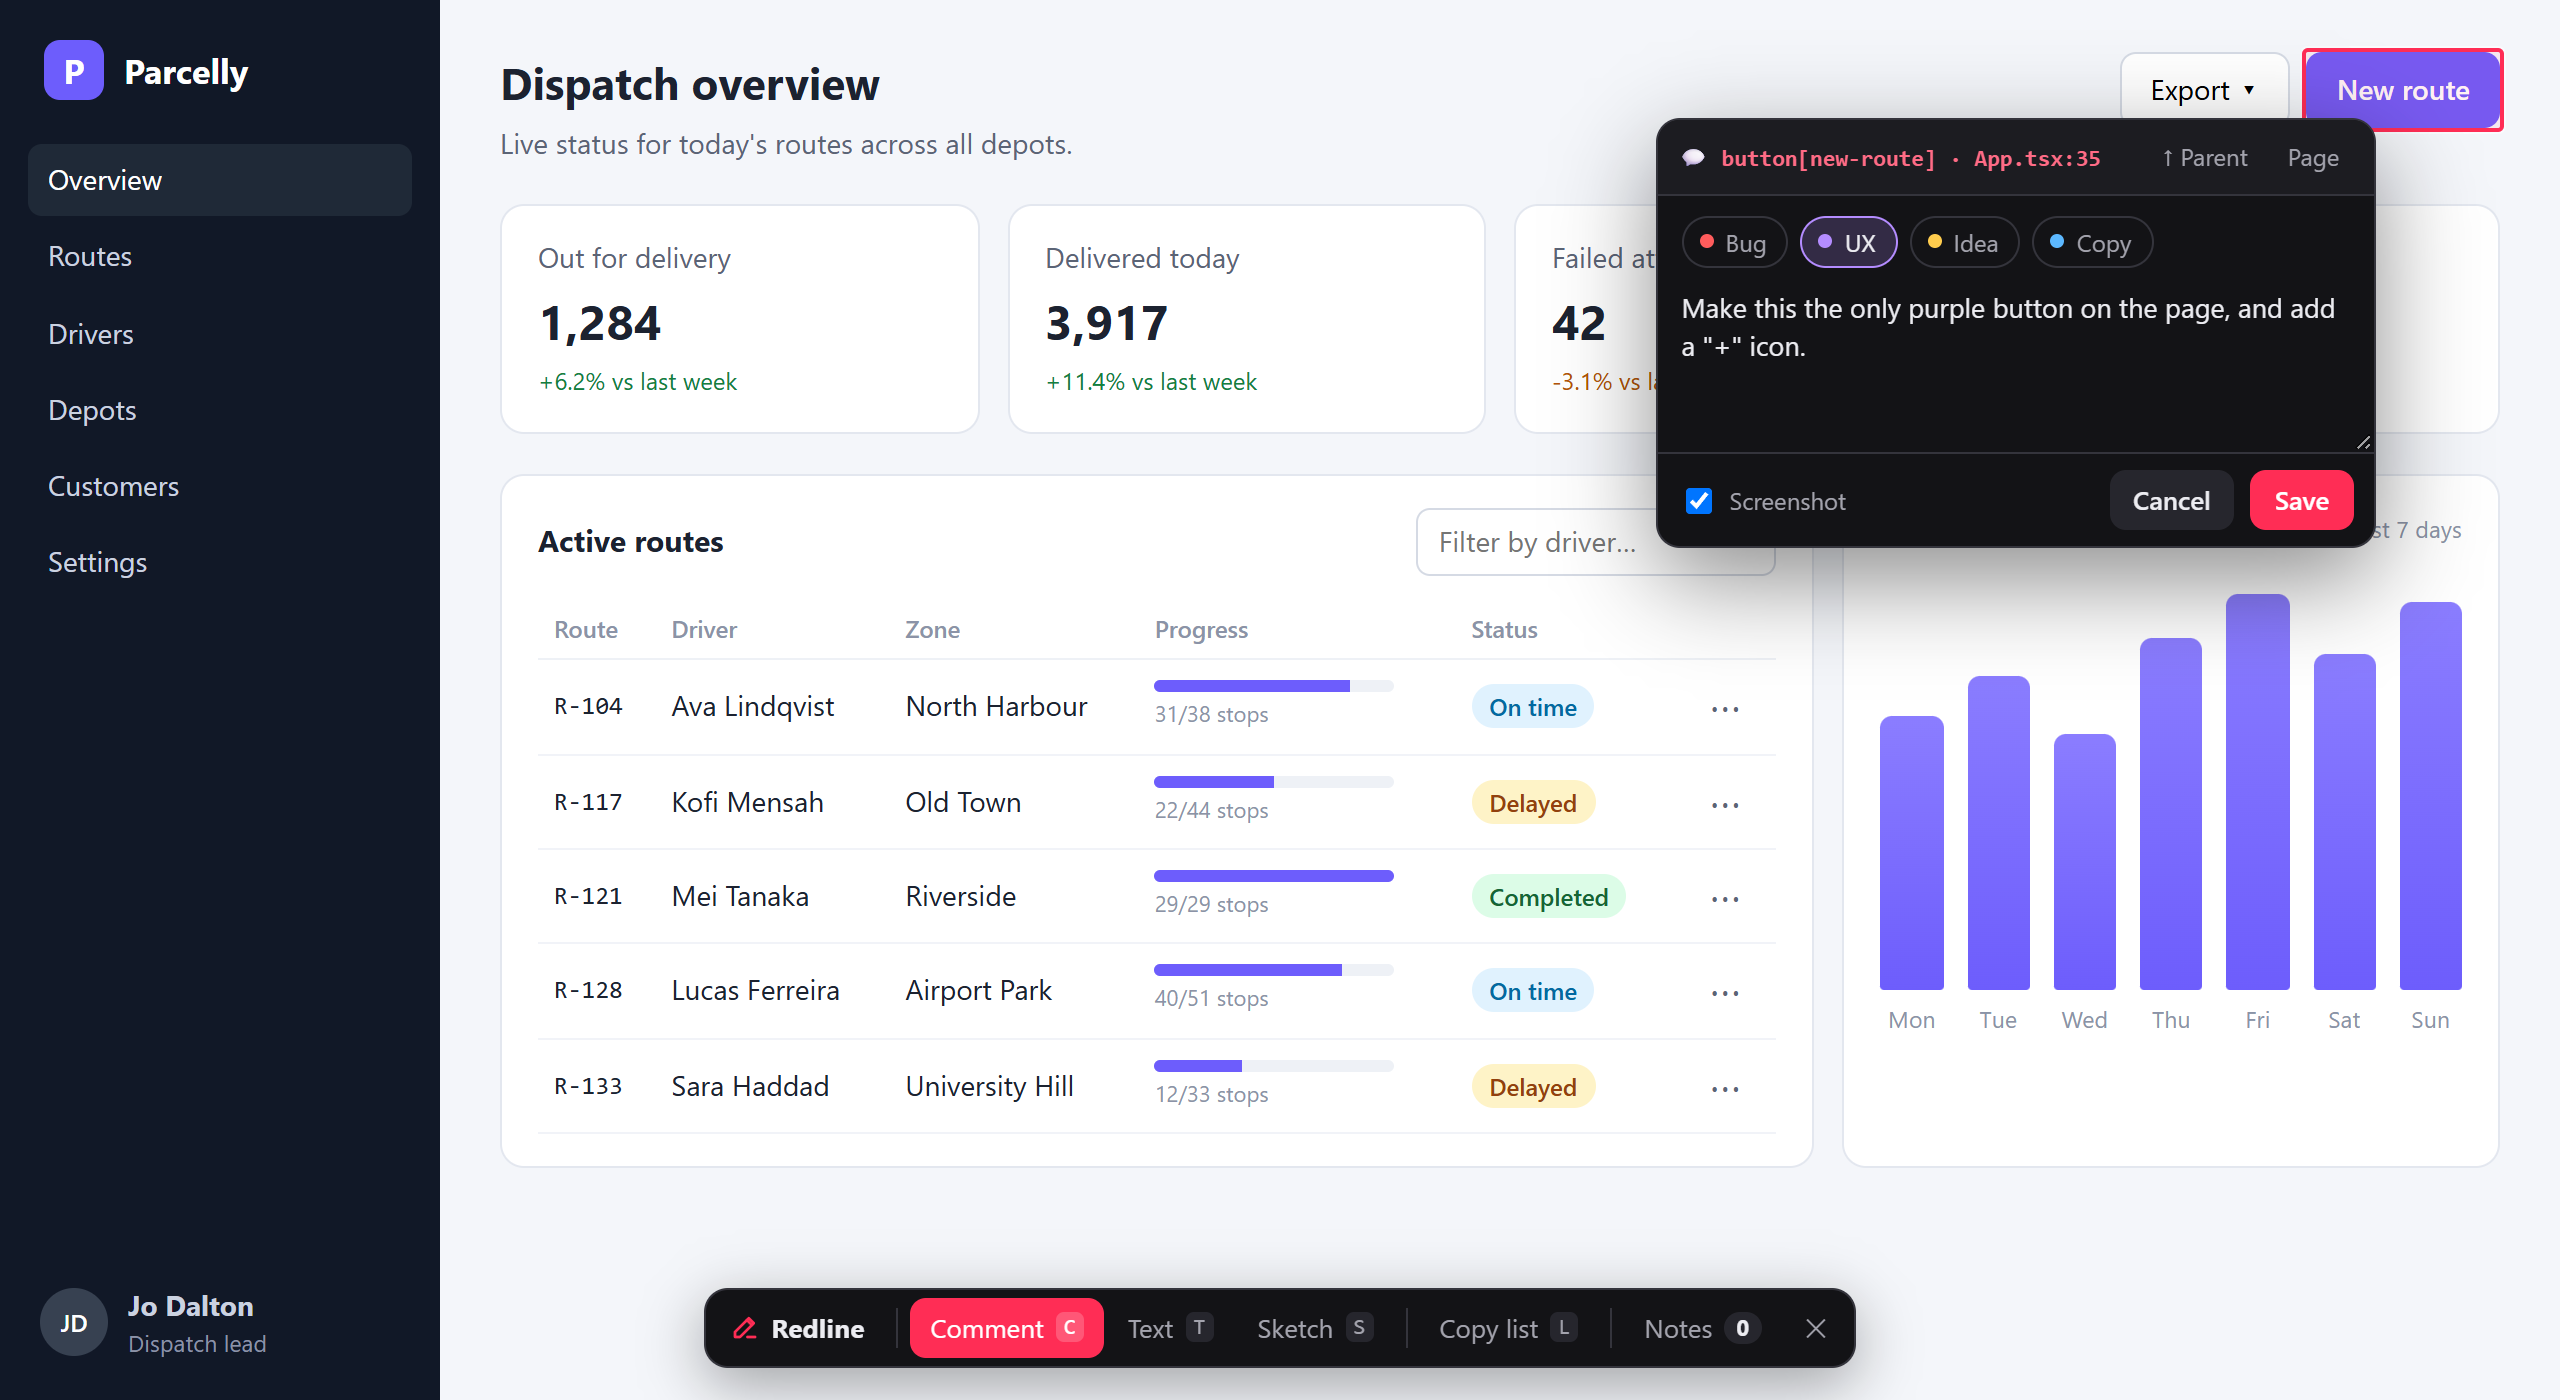
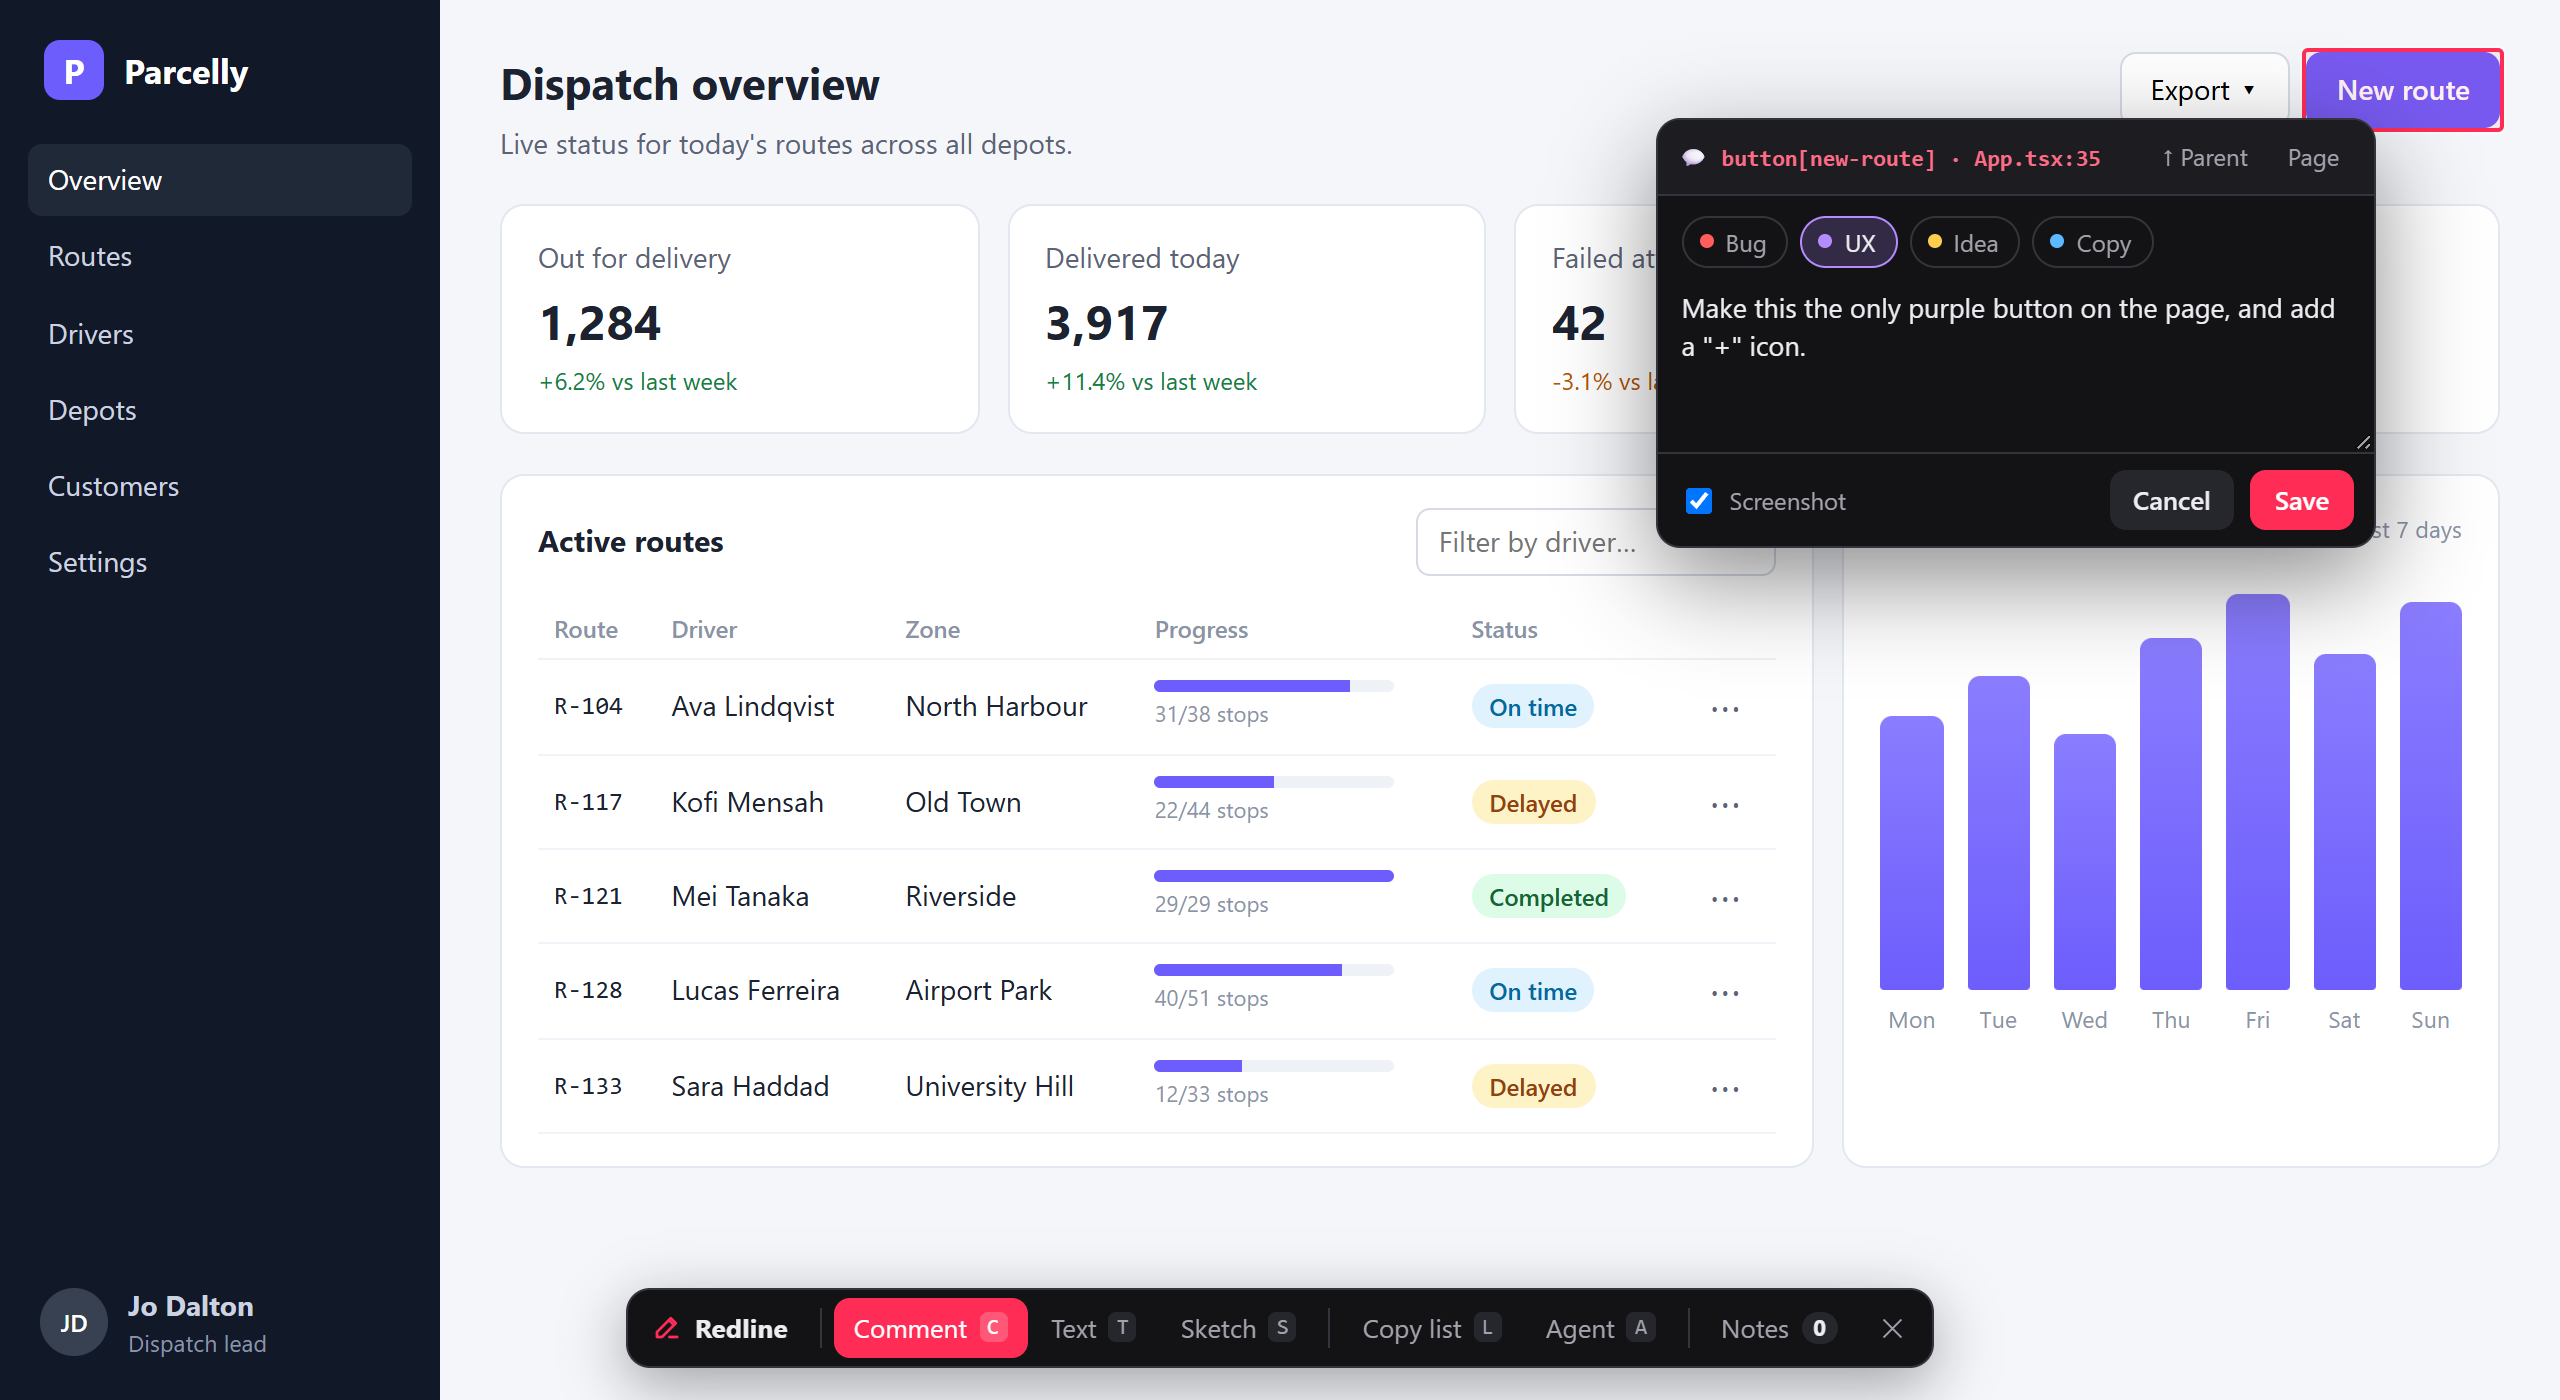
READMEs for 0.10: agent toolbar screenshot, ACP and the CLI picker, hosting options; screenshots regenerated
- npm run screenshots adds docs/images/agent.png (the tests' stand-in CLI asking for an edit) and uses its own
  notes folder (.redline/screens), so a demo running by hand keeps its notes.
- The demo's REDLINE_AGENT=1 offers every installed CLI (agent: true); REDLINE_AGENT=fake runs the stand-in.
- README: the agent section (ACP, ▾) with the screenshot, the apiBase / cors / allowInIframe line.
- agent/README: the screenshot, ACP menus and several CLIs in the feature list.
- overlay/README: a screenshot, httpTransport credentials/headers, extension API v6.

Claude-Session: https://claude.ai/code/session_014XAqdpR2HgHoarwQTouZoq

Changed region(s): [[0.2188, 0.9214, 0.6875, 1.0], [0.7188, 0.9214, 0.7812, 1.0]]

diff --git a/README.md b/README.md
@@ -3,7 +3,7 @@
 <p align="center"><a href="https://www.npmjs.com/package/@umage.ai/redline"><img alt="npm" src="https://img.shields.io/npm/v/@umage.ai/redline?label=npm&color=e5484d"></a> <a href="https://github.com/umage-ai/redline/blob/main/LICENSE"><img alt="MIT license" src="https://img.shields.io/npm/l/@umage.ai/redline?color=555"></a></p>
 <p align="center"><a href="https://umage.ai/products/redline"><b>Product page</b></a> · <a href="#packages">Packages</a> · <a href="#quick-start">Setup</a> · <a href="https://github.com/umage-ai/redline/blob/main/docs/SETUPS.md">Setups</a> · <a href="https://github.com/umage-ai/redline/blob/main/docs/USAGE.md">Guide</a> · <a href="https://github.com/umage-ai/redline/releases">Releases</a></p>
 
-![Commenting on a button: the popover shows the element and its React source, App.tsx:32](https://raw.githubusercontent.com/umage-ai/redline/main/docs/images/comment.png)
+![Commenting on a button: the popover shows the element and its React source, App.tsx:35](https://raw.githubusercontent.com/umage-ai/redline/main/docs/images/comment.png)
 
 Redline is a dev-only overlay for any web app. Press **Alt+Shift+R** in the browser, then pin comments on elements,
 rewrite text in place, or sketch on the page. Any coding agent (Claude Code, Codex, Cursor, Copilot, Gemini CLI, …)
@@ -50,6 +50,8 @@ Run `vite dev` and press **Alt+Shift+R**. Other stacks ([full setup per framewor
 | Other Node servers | `redlineMiddleware()` → `{ api, inject }` from `@umage.ai/redline/server` |
 | ASP.NET Core, Blazor, Optimizely (upcoming) | `AddRedline()` ([dotnet/README.md](https://github.com/umage-ai/redline/blob/main/dotnet/README.md)) |
 
+The API under another path (`apiBase`, a .NET `PathBase`), on another origin (`cors`, credentials or a header hook) or the overlay
+inside iframes (`allowInIframe`): [docs/SETUPS.md](https://github.com/umage-ai/redline/blob/main/docs/SETUPS.md).
 Local dev, shared notes, a deployed review site or your own backend: [docs/SETUPS.md](https://github.com/umage-ai/redline/blob/main/docs/SETUPS.md) says which fits.
 Every option and its default: [docs/OPTIONS.md](https://github.com/umage-ai/redline/blob/main/docs/OPTIONS.md).
 
@@ -69,9 +71,12 @@ Labels, phones, the launcher and your own open buttons, screenshots, direct edit
 
 ## Agent panel
 
-With `@umage.ai/redline-agent` and `agent: true`, your agent CLI (Claude Code or OpenCode) runs from the overlay: **Apply 3 notes**,
-its questions and diffs in a card on the toolbar, a session per prompt, and its state as a ring on the launcher. Local dev only.
-See [agent/README.md](https://github.com/umage-ai/redline/blob/main/agent/README.md).
+With `@umage.ai/redline-agent` and `agent: true`, your agent CLI runs from the overlay: **Apply 2 notes**, its questions and
+diffs in a card on the toolbar, a session per prompt, and its state as a ring on the launcher. Every installed CLI is offered
+(Claude Code, OpenCode; ▾ picks one); OpenCode and any other [ACP](https://agentclientprotocol.com) agent run over the Agent Client
+Protocol, so their permission prompts arrive with their real options. Local dev only. See [agent/README.md](https://github.com/umage-ai/redline/blob/main/agent/README.md).
+
+![The agent toolbar: the CLI asks to edit src/App.tsx; the card shows the diff and its three options](https://raw.githubusercontent.com/umage-ai/redline/main/docs/images/agent.png)
 
 ## Packages
 

diff --git a/agent/README.md b/agent/README.md
@@ -1,8 +1,10 @@
 # @umage.ai/redline-agent
 
 The agent panel for [Redline](https://github.com/umage-ai/redline)'s dev server. It runs your agent CLI
-(Claude Code by default; Codex, Gemini CLI, aider… any terminal program) in a pseudo-terminal on the dev
+(Claude Code, OpenCode, or any terminal program; any [ACP](https://agentclientprotocol.com) agent without a terminal) on the dev
 server and drives it from the overlay, so reviewers never need to open a terminal:
+
+![The agent toolbar: the CLI asks to edit src/App.tsx; the card shows the diff and its three options](https://raw.githubusercontent.com/umage-ai/redline/main/docs/images/agent.png)
 
 - **The agent toolbar**: **Agent** (A) in Redline's toolbar, or `Alt+Shift+A` from anywhere. It shows the
   agent's state and its own message, **Apply 3 notes** and your own prompt buttons, **CLI** for its
@@ -11,8 +13,10 @@ server and drives it from the overlay, so reviewers never need to open a termina
   stepped questions, a trust dialog), the card shows the context, the question and every option, with a field for
   "Type something". It is read off the CLI's screen, so it is exactly what the terminal shows; a click moves the
   CLI's cursor and presses Enter. This is for Claude Code (detected from its OSC 7501 reports or the command
-  `claude`); other CLIs get **Allow**/**Deny** and the terminal (`menus: true` tries it anyway).
-- **Live status** from the CLI's OSC 7501 reports (Claude Code sends them): a light sweeping round the toolbar
+  `claude`). ACP agents (OpenCode by default) send their permission requests as data, so the card shows their own
+  options too; other CLIs get **Allow**/**Deny** and the terminal (`menus: true` tries it anyway).
+- **Several CLIs**: every installed one is offered; a ▾ next to the prompt buttons picks one, remembered in this browser.
+- **Live status** from the CLI's OSC 7501 reports (Claude Code sends them) or the ACP session: a light sweeping round the toolbar
   and a turning ring on the closed launcher while it works, an orange glow while it waits for you, green when done.
 - **Fresh sessions** (the default since 0.10; the toolbar's **Fresh** switches): every prompt starts its own session with
   only its notes (none that a running session already has), several at once, a tab each (3 shown, the rest

diff --git a/docs/STATE.md b/docs/STATE.md
@@ -1,6 +1,6 @@
 # State
 
-Last updated: 2026-11-10 · Cap: 150 lines · Rewrite sections in place; this is a snapshot, not a log.
+Last updated: 2026-11-11 · Cap: 150 lines · Rewrite sections in place; this is a snapshot, not a log.
 
 ## Status
 
@@ -48,7 +48,7 @@ README and LICENSE. Later releases go through `.github/workflows/publish.yml` (T
 | Sketch text labels (Enter commits once, Escape drops) | ✅ | `overlay.spec.ts` |
 | Sketch colours: one swatch folds out a palette of six (halos), per shape, `C` cycles, remembered; kept in svg + png | ✅ | `overlay.spec.ts`, `mobile.spec.ts` |
 | Phones/touch (360 px, Pixel 8 Pro at 125%): everything fits, tap to pick, swipe scrolls while picking, tap outside ends a text edit, sketch by finger, full-width panel, pins kept on screen; `examples/demo` is responsive | ✅ emulated | `mobile.spec.ts`; not yet tried on a real device |
-| README screenshots from `examples/demo` | ✅ regenerated by `npm run screenshots` | not a test; rerun after UI changes |
+| README screenshots from `examples/demo` (core, overlay; the agent toolbar with the tests' stand-in CLI) | ✅ regenerated by `npm run screenshots` | not a test; rerun after UI changes |
 | Promo video (LinkedIn 4:5, web 16:9) from `examples/demo` | ✅ recorded by `npm run promo` (needs ffmpeg); output in `promo/out/`, gitignored | not a test; storyboard in `promo/README.md` |
 | Packed tarball installed into fresh React / SvelteKit / Astro / node:http apps, wired as the README says; types (bundler + nodenext); `redline init` | ✅ | `npm run test:package` (also `prepublishOnly`) |
 | Markdown format identical in Node and .NET (escaping, numbers, key order, slugs, INDEX) | ✅ | `test/golden` via `golden.test.ts` and `GoldenTests.cs` |

diff --git a/overlay/README.md b/overlay/README.md
@@ -4,6 +4,8 @@ The [Redline](https://github.com/umage-ai/redline) review overlay as browser mod
 embed it: a browser extension, a review site, a snippet on a customer's page. Reviewers pin comments, text
 changes and sketches on the live page; your code decides where the notes go.
 
+![Commenting on a button: the popover shows the element and its React source](https://raw.githubusercontent.com/umage-ai/redline/main/docs/images/comment.png)
+
 No server parts, no dependencies, nothing runs on import. The dev-server integrations (Vite, Astro, Next,
 Angular, Node, .NET) are in [`@umage.ai/redline`](https://www.npmjs.com/package/@umage.ai/redline), which ships
 the same modules as `@umage.ai/redline/overlay`.
@@ -26,6 +28,15 @@ rl.unmount();
 ```
 
 To change one call of a transport, wrap it: `{ ...httpTransport('/api/review'), create: r => base.create(tag(r)) }`.
+An API on another origin: `httpTransport('https://cms.example/__redline', { credentials: 'include' })` (cookies) or
+`{ headers: async () => ({ authorization: 'Bearer ' + await token() }) }`; the server lists your origin in its `cors` option.
+
+Extensions (API v6) add host context to a note from the picked element, and can change or cancel it before it is saved:
+
+```js
+rl.api.addTargetEnricher(el => ({ extra: { property: el.closest('[data-epi-property-name]')?.dataset.epiPropertyName } }));
+rl.api.beforeCreate(req => (req.body.trim() ? req : false));
+```
 
 Building blocks on their own: `/anchor` (describe and re-find an element), `/sketch`, `/capture`
 (screenshots), `/shield` (keep the page from seeing overlay events), `/styles`, `/transport`, `/strings`.
